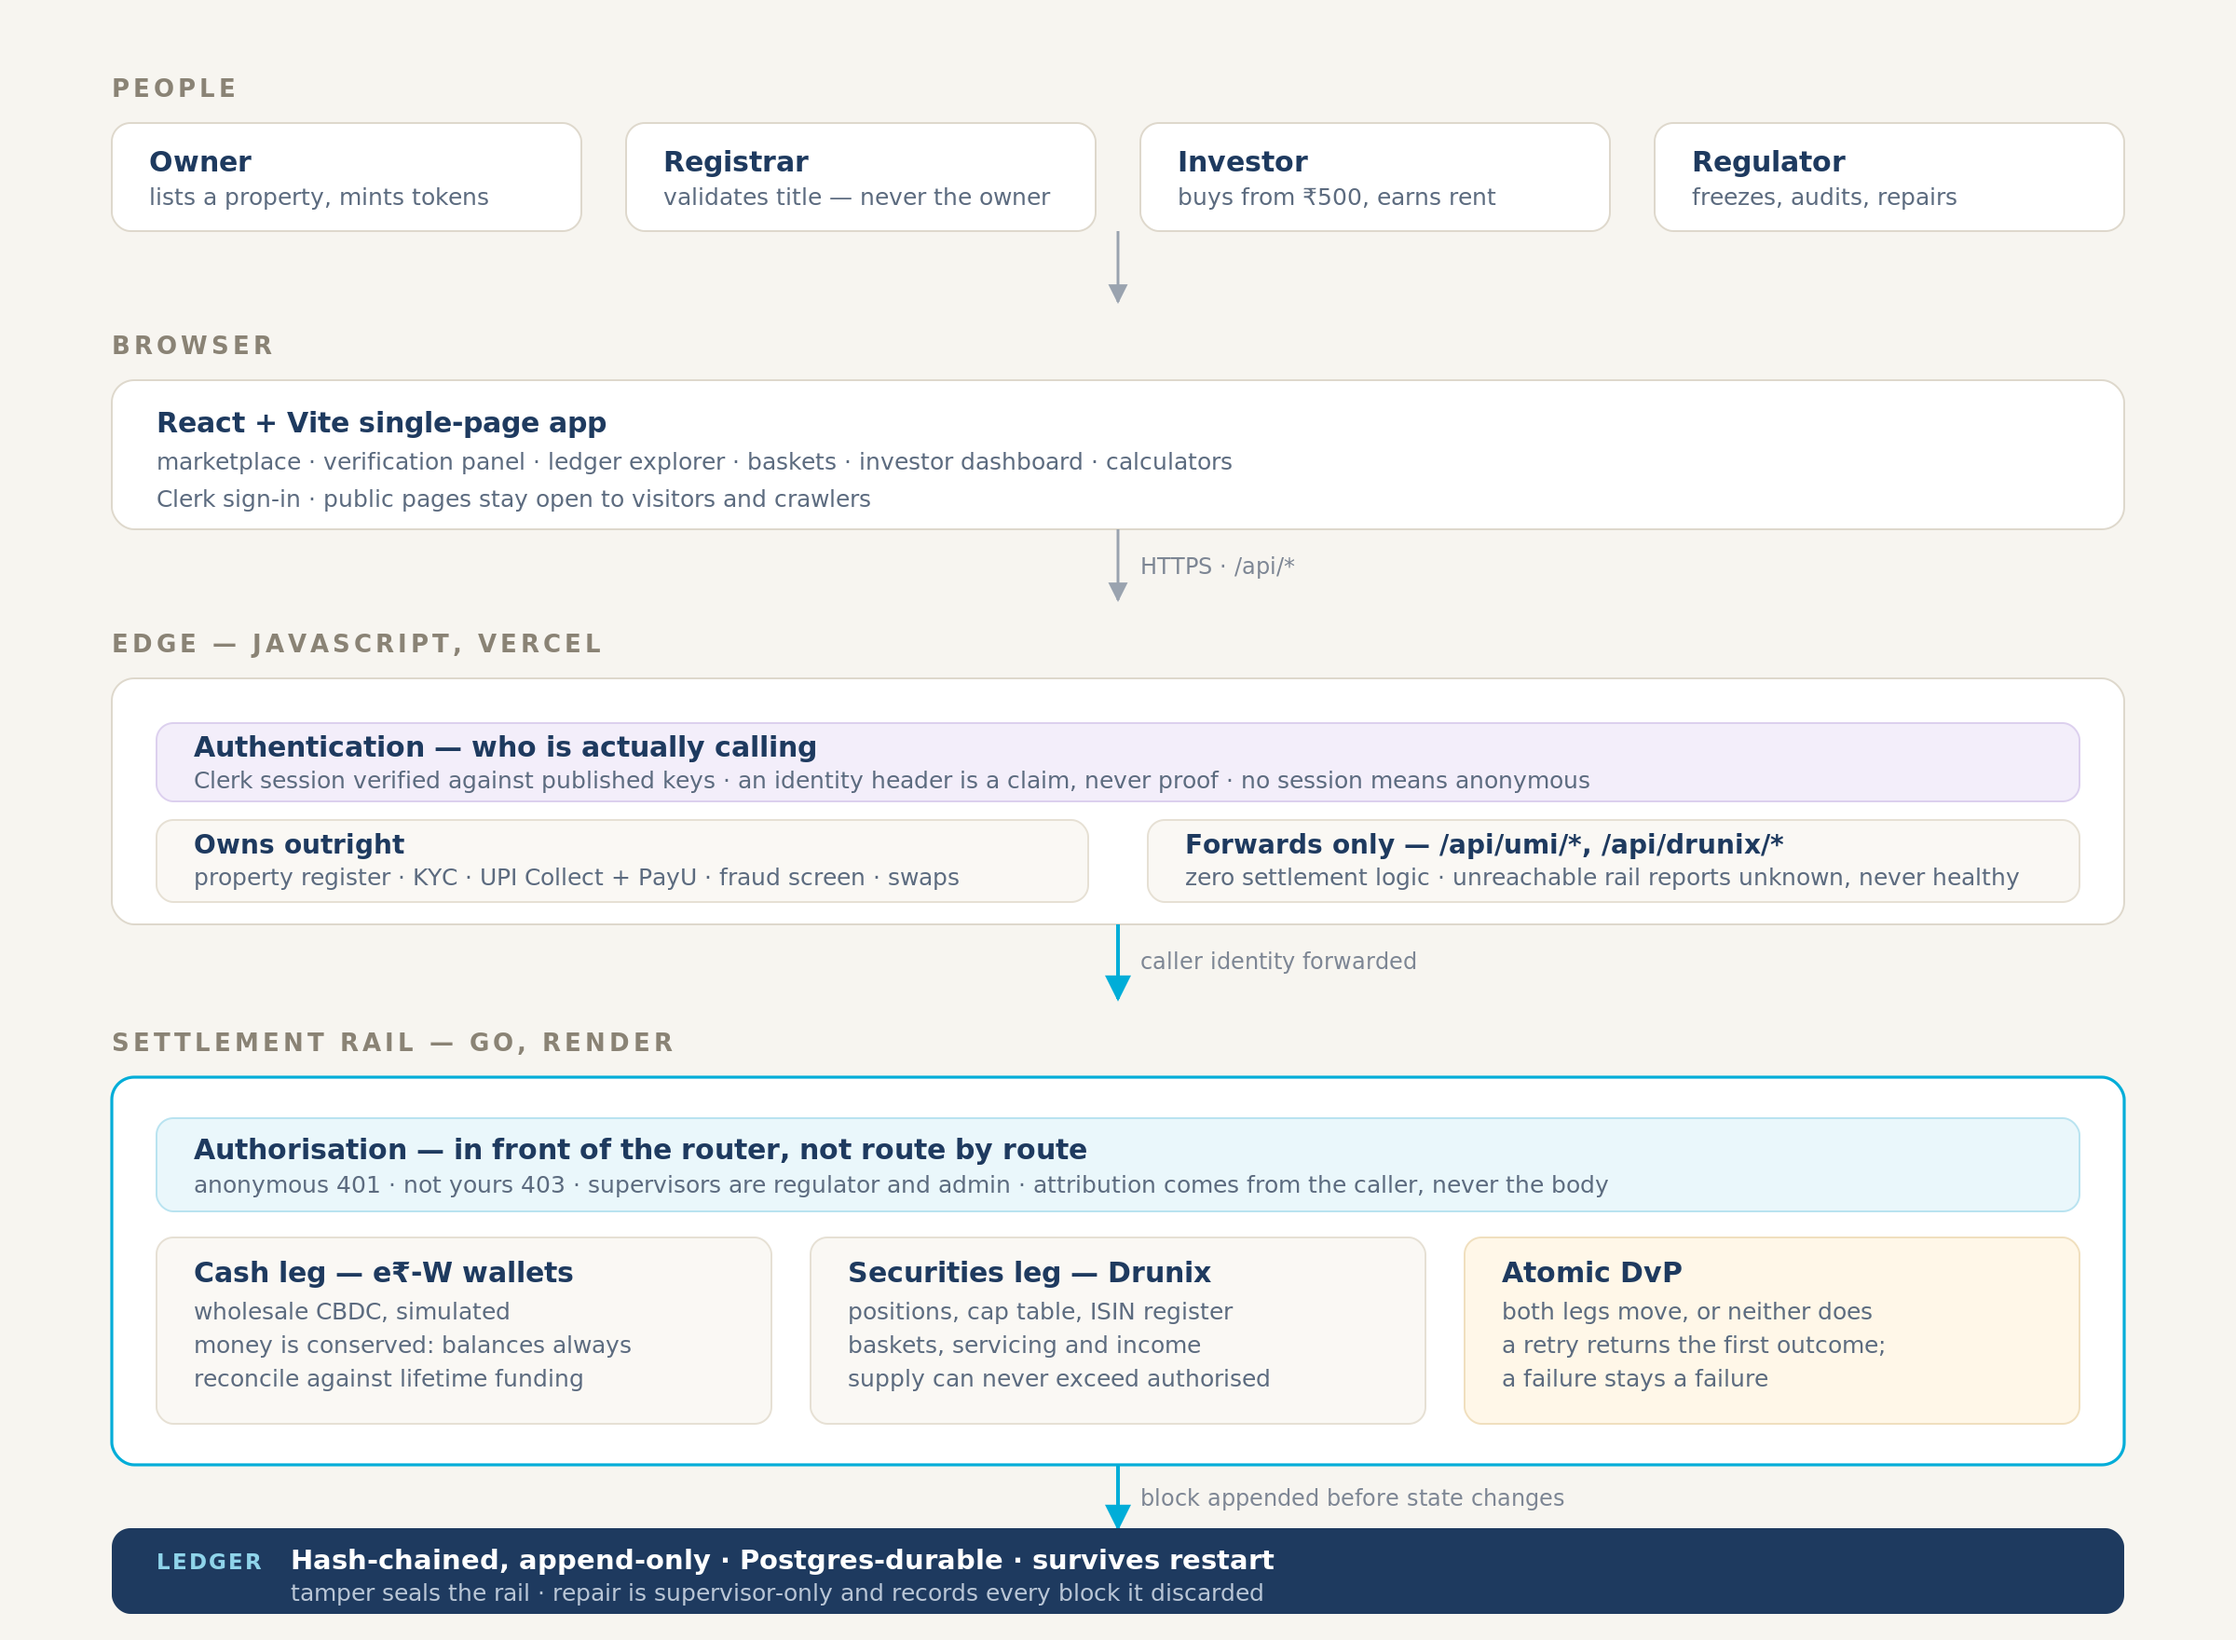
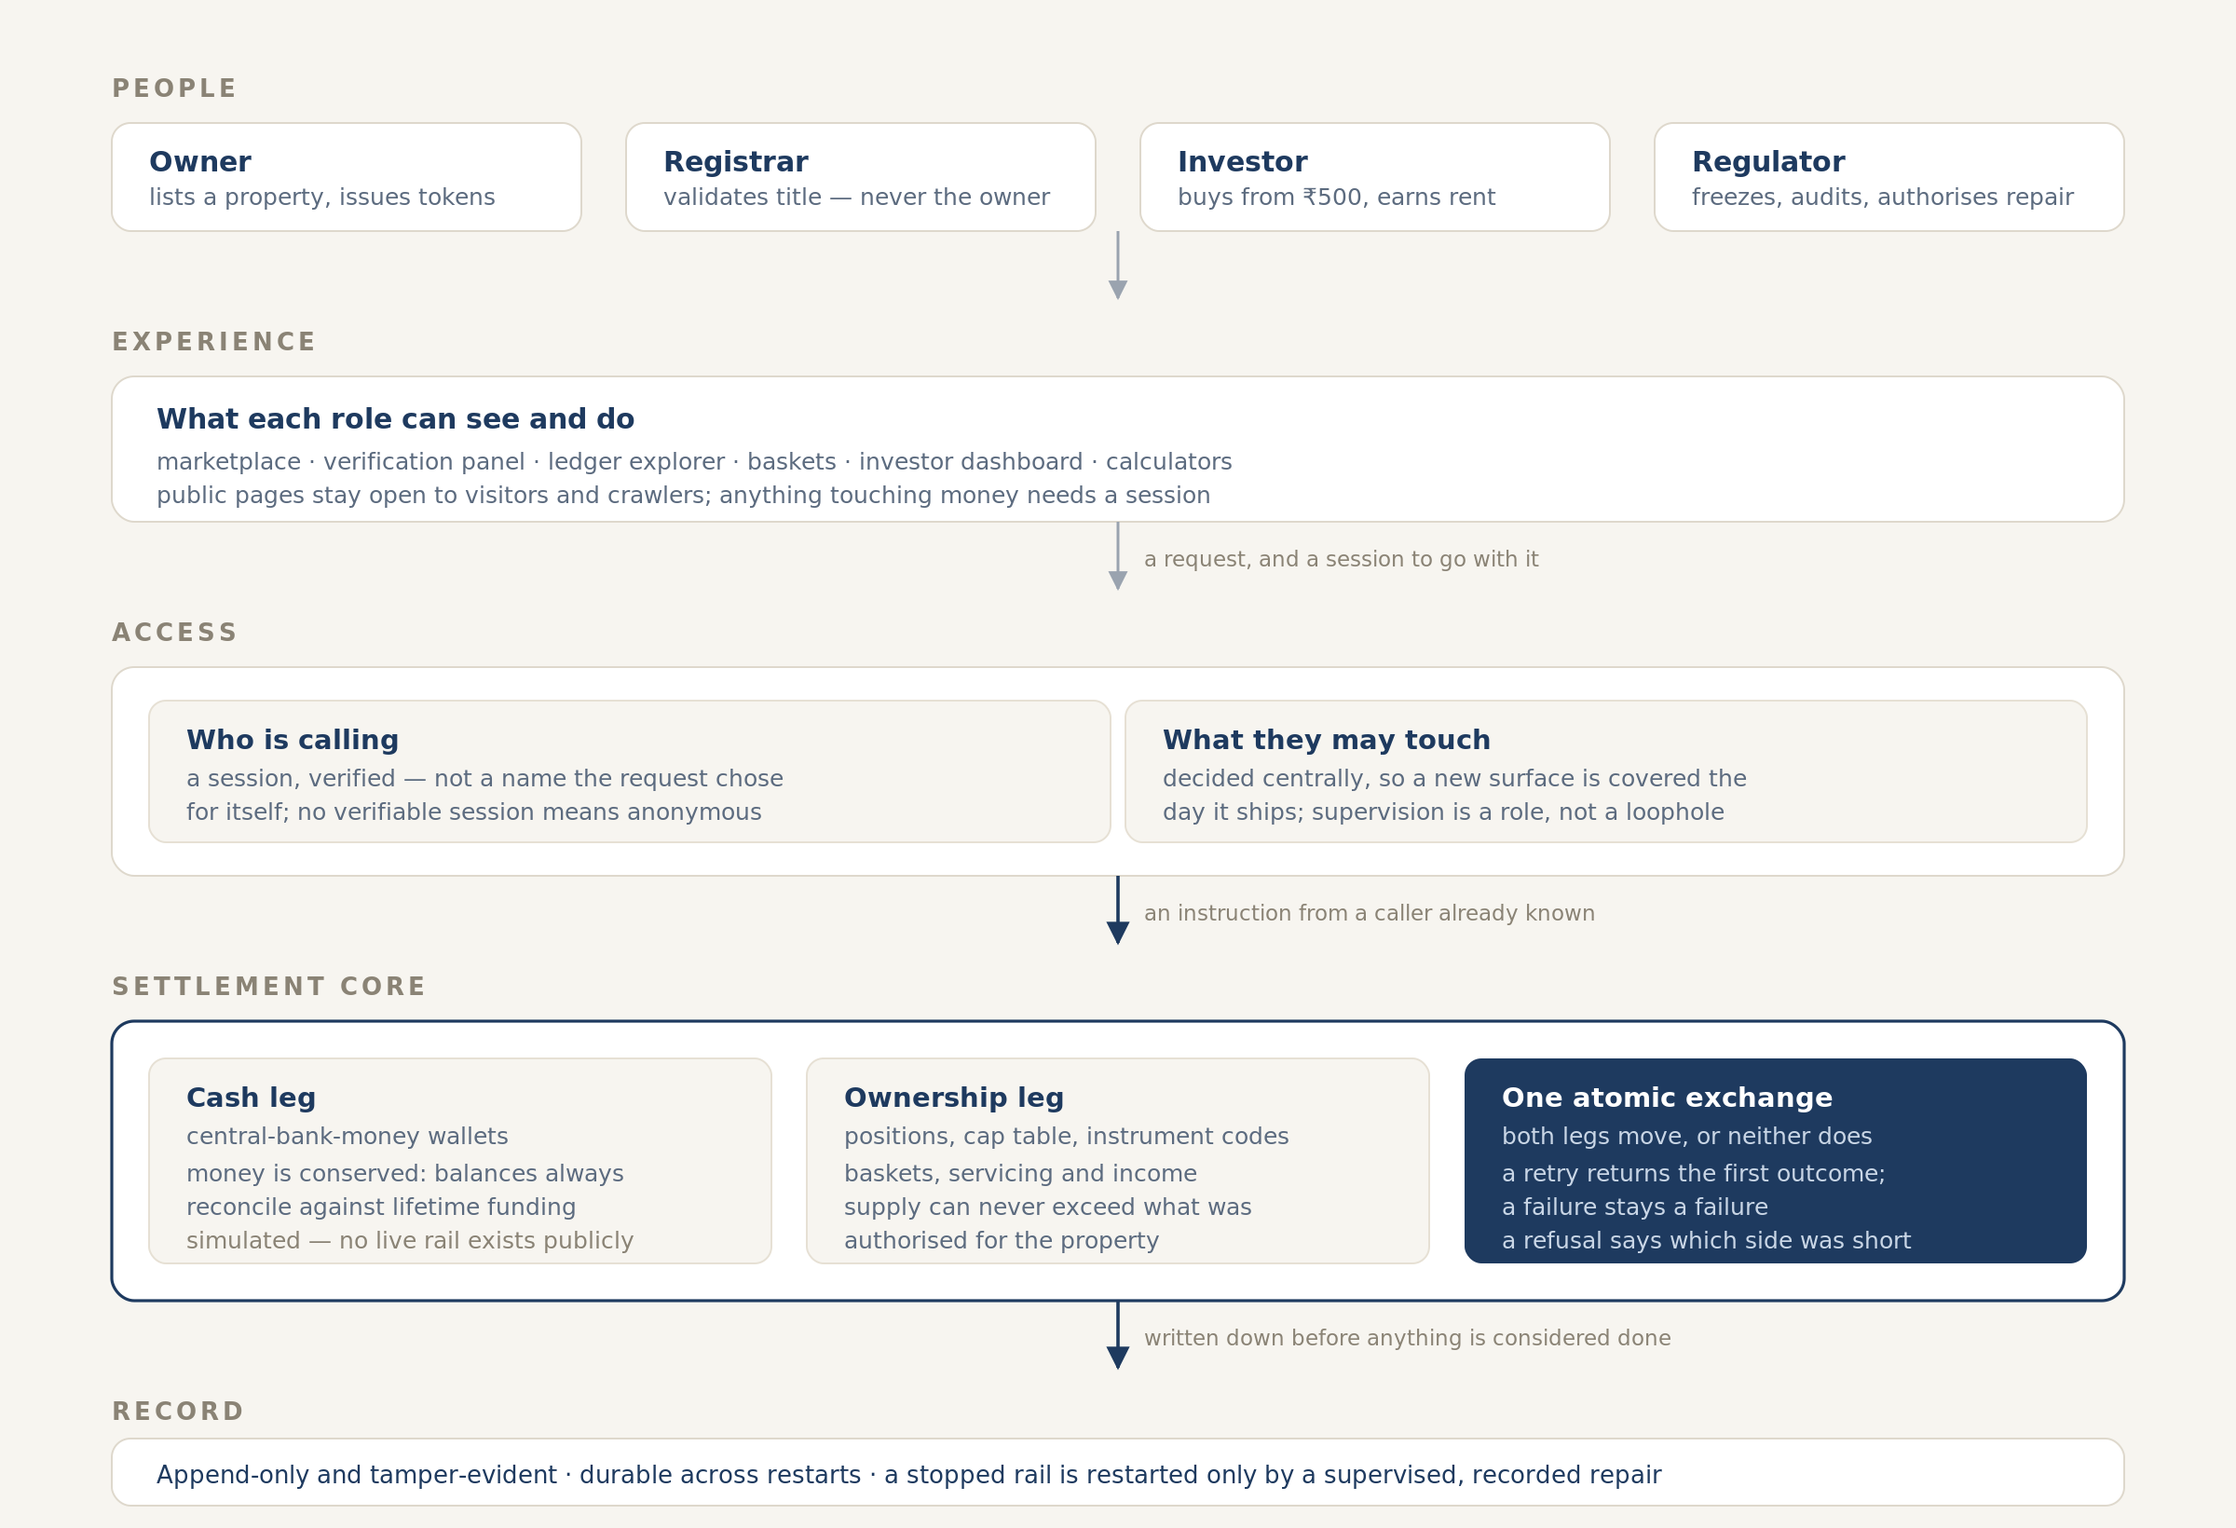
Describe the system in the README, not how it is wired
Operator detail — commands, environment variables, deploy order — moves to docs/DEPLOYMENT.md where it belongs.

diff --git a/docs/DEPLOYMENT.md b/docs/DEPLOYMENT.md
@@ -1,0 +1,72 @@
+# Running and deploying AasthiChain
+
+The README describes the system. This file is the operator's copy: exact commands, exact variables.
+
+## Processes
+
+| Process | What it is | Default port |
+|---|---|---|
+| Web app + edge | `node server.js` — serves the built frontend and the API handler | 8080 |
+| Settlement core | `drunix-gateway` — the Go rail that owns the ledger | 21100 |
+| Fabric network | optional, only for the chaincode path | — |
+
+## Local
+
+```bash
+# 1 — frontend only, no Go and no Docker
+cd frontend && npm install && npm run dev        # :5173
+
+# 2 — with the settlement core
+cd drunix-gateway && go run ./cmd/gateway                            # :21100
+DEMO_AUTH=true UMI_GATEWAY_URL=http://localhost:21100 node server.js  # :8080
+
+# 3 — everything, including the Fabric network
+cd network && docker-compose up -d && ./scripts/create-channel.sh
+```
+
+Verification:
+
+```bash
+bash regression.sh                      # end-to-end checks against whichever server is on :8080
+cd drunix-gateway && go test ./...      # settlement core unit and authorisation tests
+```
+
+`regression.sh` expects the web app on `:8080` and the settlement core on `:21100`.
+
+## Environment
+
+| Variable | Where | Purpose |
+|---|---|---|
+| `VITE_CLERK_PUBLISHABLE_KEY` | web app | Clerk auth. Use a `pk_live_` production key. |
+| `CLERK_ISSUER` | web app | Clerk Frontend API URL. **Set it** — without it, session signatures are not verified. |
+| `UMI_GATEWAY_URL` | web app | address of the settlement core; unset means the rail reports unreachable |
+| `ADMIN_DASHBOARD_KEY` | web app | private analytics page |
+| `DATABASE_URL` | settlement core | Postgres, for durable blocks. Without it the ledger is in-memory and a restart erases it. |
+| `UMI_ENABLED` | settlement core | mounts the settlement routes |
+| `UMI_SEED_DEMO` | settlement core | demo fixtures. Set to `false` anywhere holding real positions. |
+| `DRUNIX_MODE` | settlement core | `mock` simulator, or `real` against a Fabric network |
+| `NPCI_WEBHOOK_SECRET` | web app | HMAC secret for payment callbacks; callbacks are refused when unset |
+| `NPCI_MODE`, `PAYU_MERCHANT_KEY`, `PAYU_SALT` | web app | `mock` · `payu` · `real` |
+| `DEMO_AUTH` | — | development only. **Never set it in production** — it lets a request name its own identity. |
+
+Credentials are never committed; `.env.payu` is gitignored.
+
+## Production
+
+- The web app deploys to Vercel; the settlement core runs as a container (`render.yaml`,
+  `drunix-gateway/Dockerfile` and `drunix-gateway/fly.toml` are all included).
+- Deploy the core first, then set `UMI_GATEWAY_URL` on the web app and redeploy it.
+- Health: `GET /health` on the core reports the running commit; `GET /` lists its routes.
+- Give the core a `DATABASE_URL` before anything real happens on it. A free instance that sleeps
+  loses an in-memory ledger, and the append-only guarantee does not survive that.
+
+## Diagram
+
+`docs/architecture.svg` is the editable source; `docs/architecture.png` is the export the README
+shows. Re-export after editing:
+
+```bash
+pip install cairosvg
+python3 -c "import cairosvg; cairosvg.svg2png(url='docs/architecture.svg', \
+  write_to='docs/architecture.png', scale=2, background_color='#F7F5F0')"
+```
